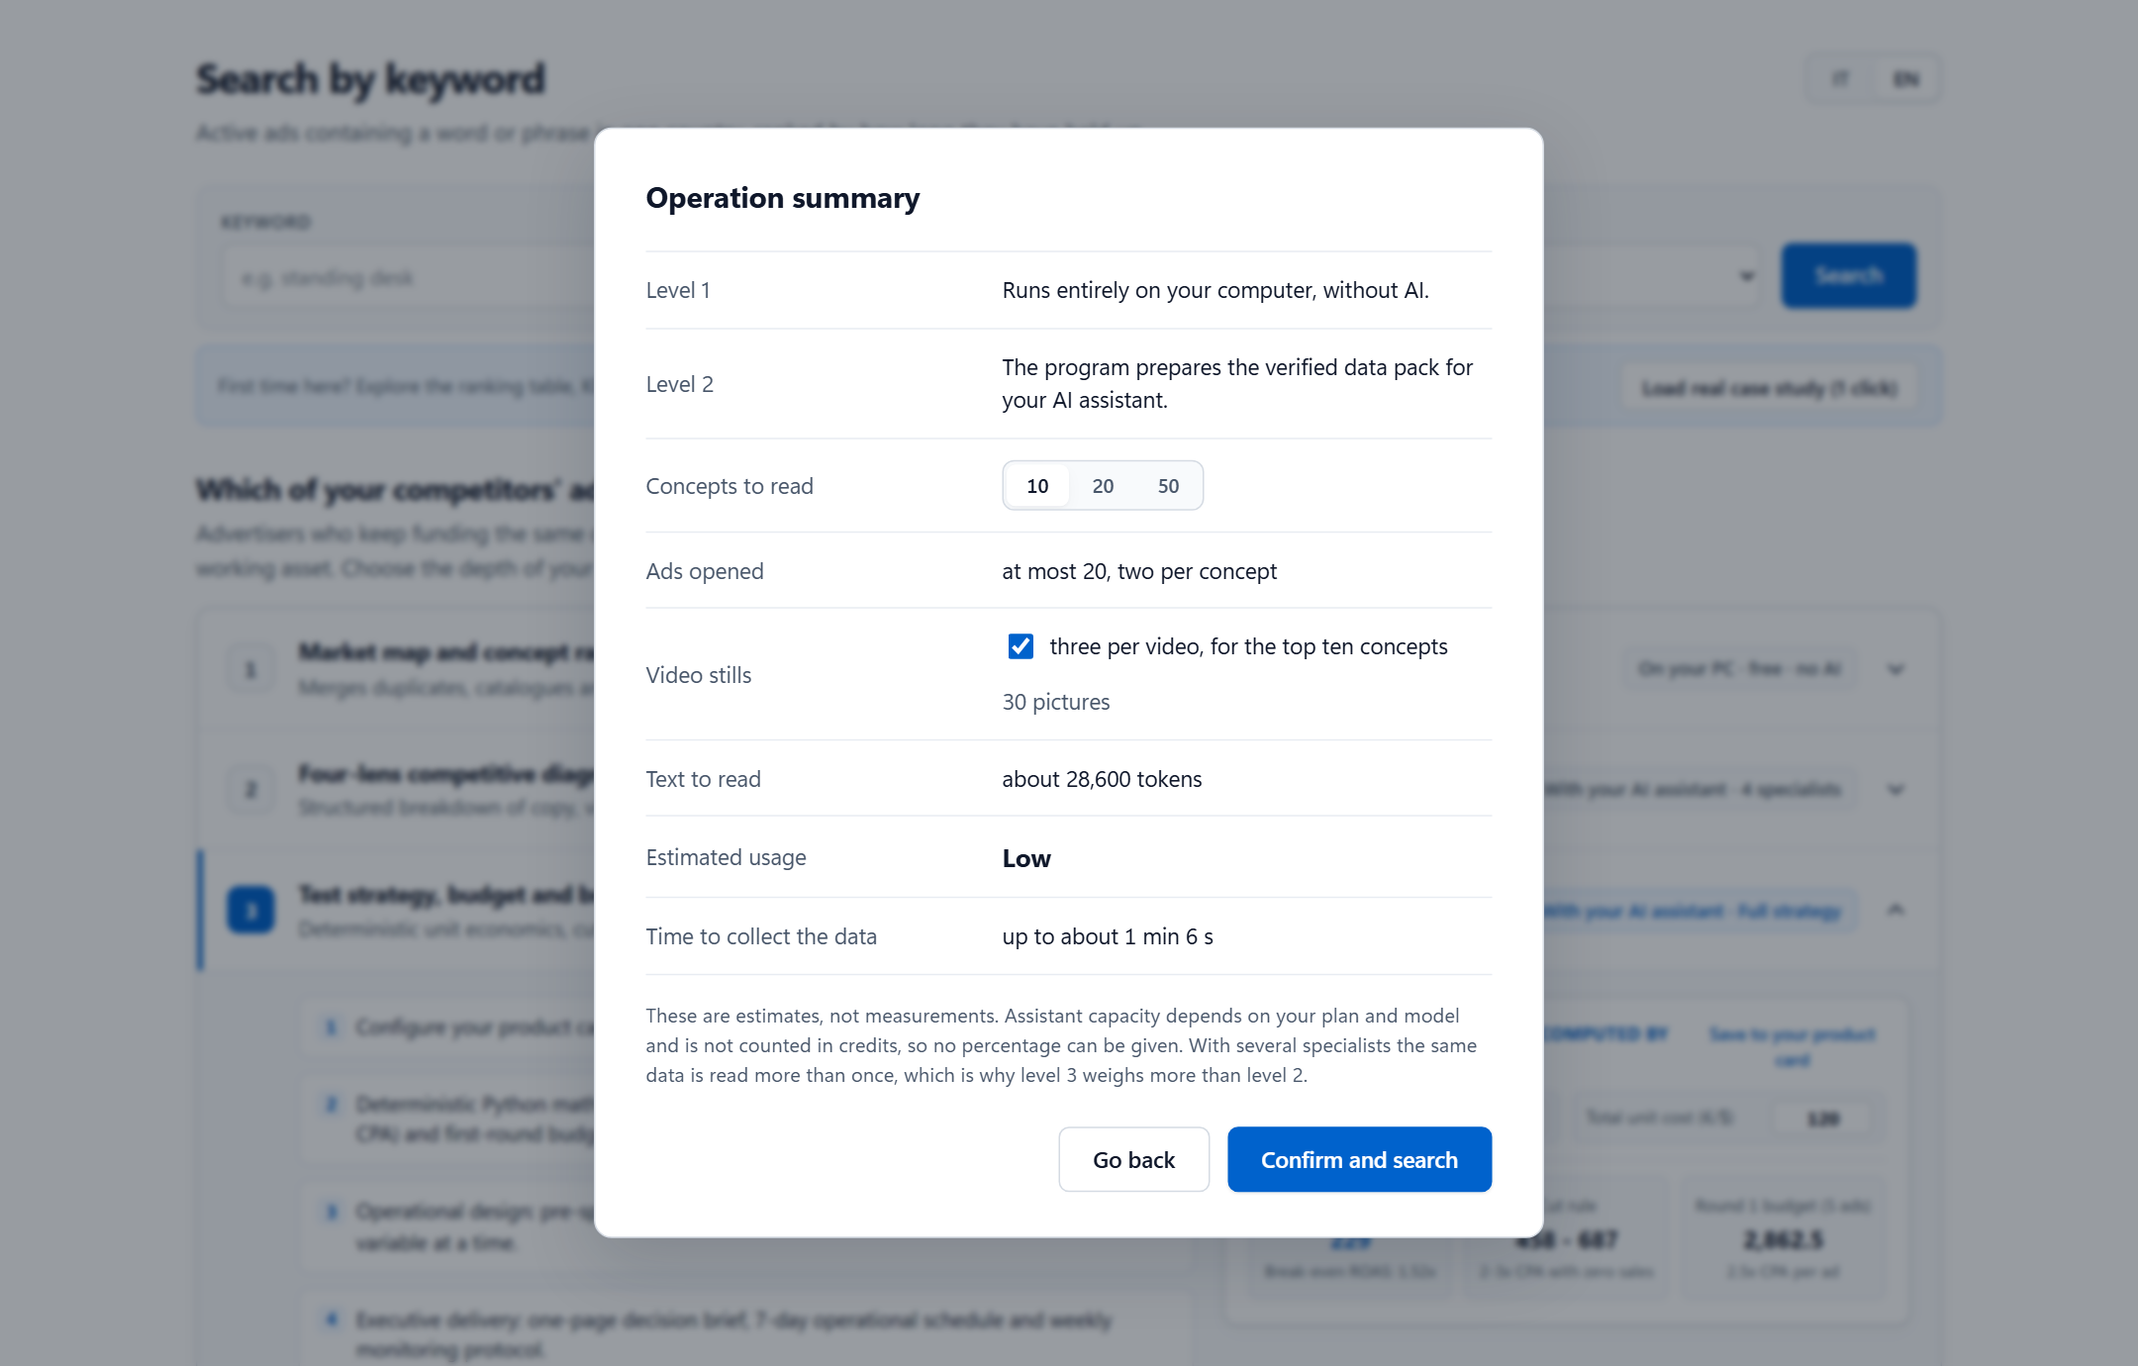
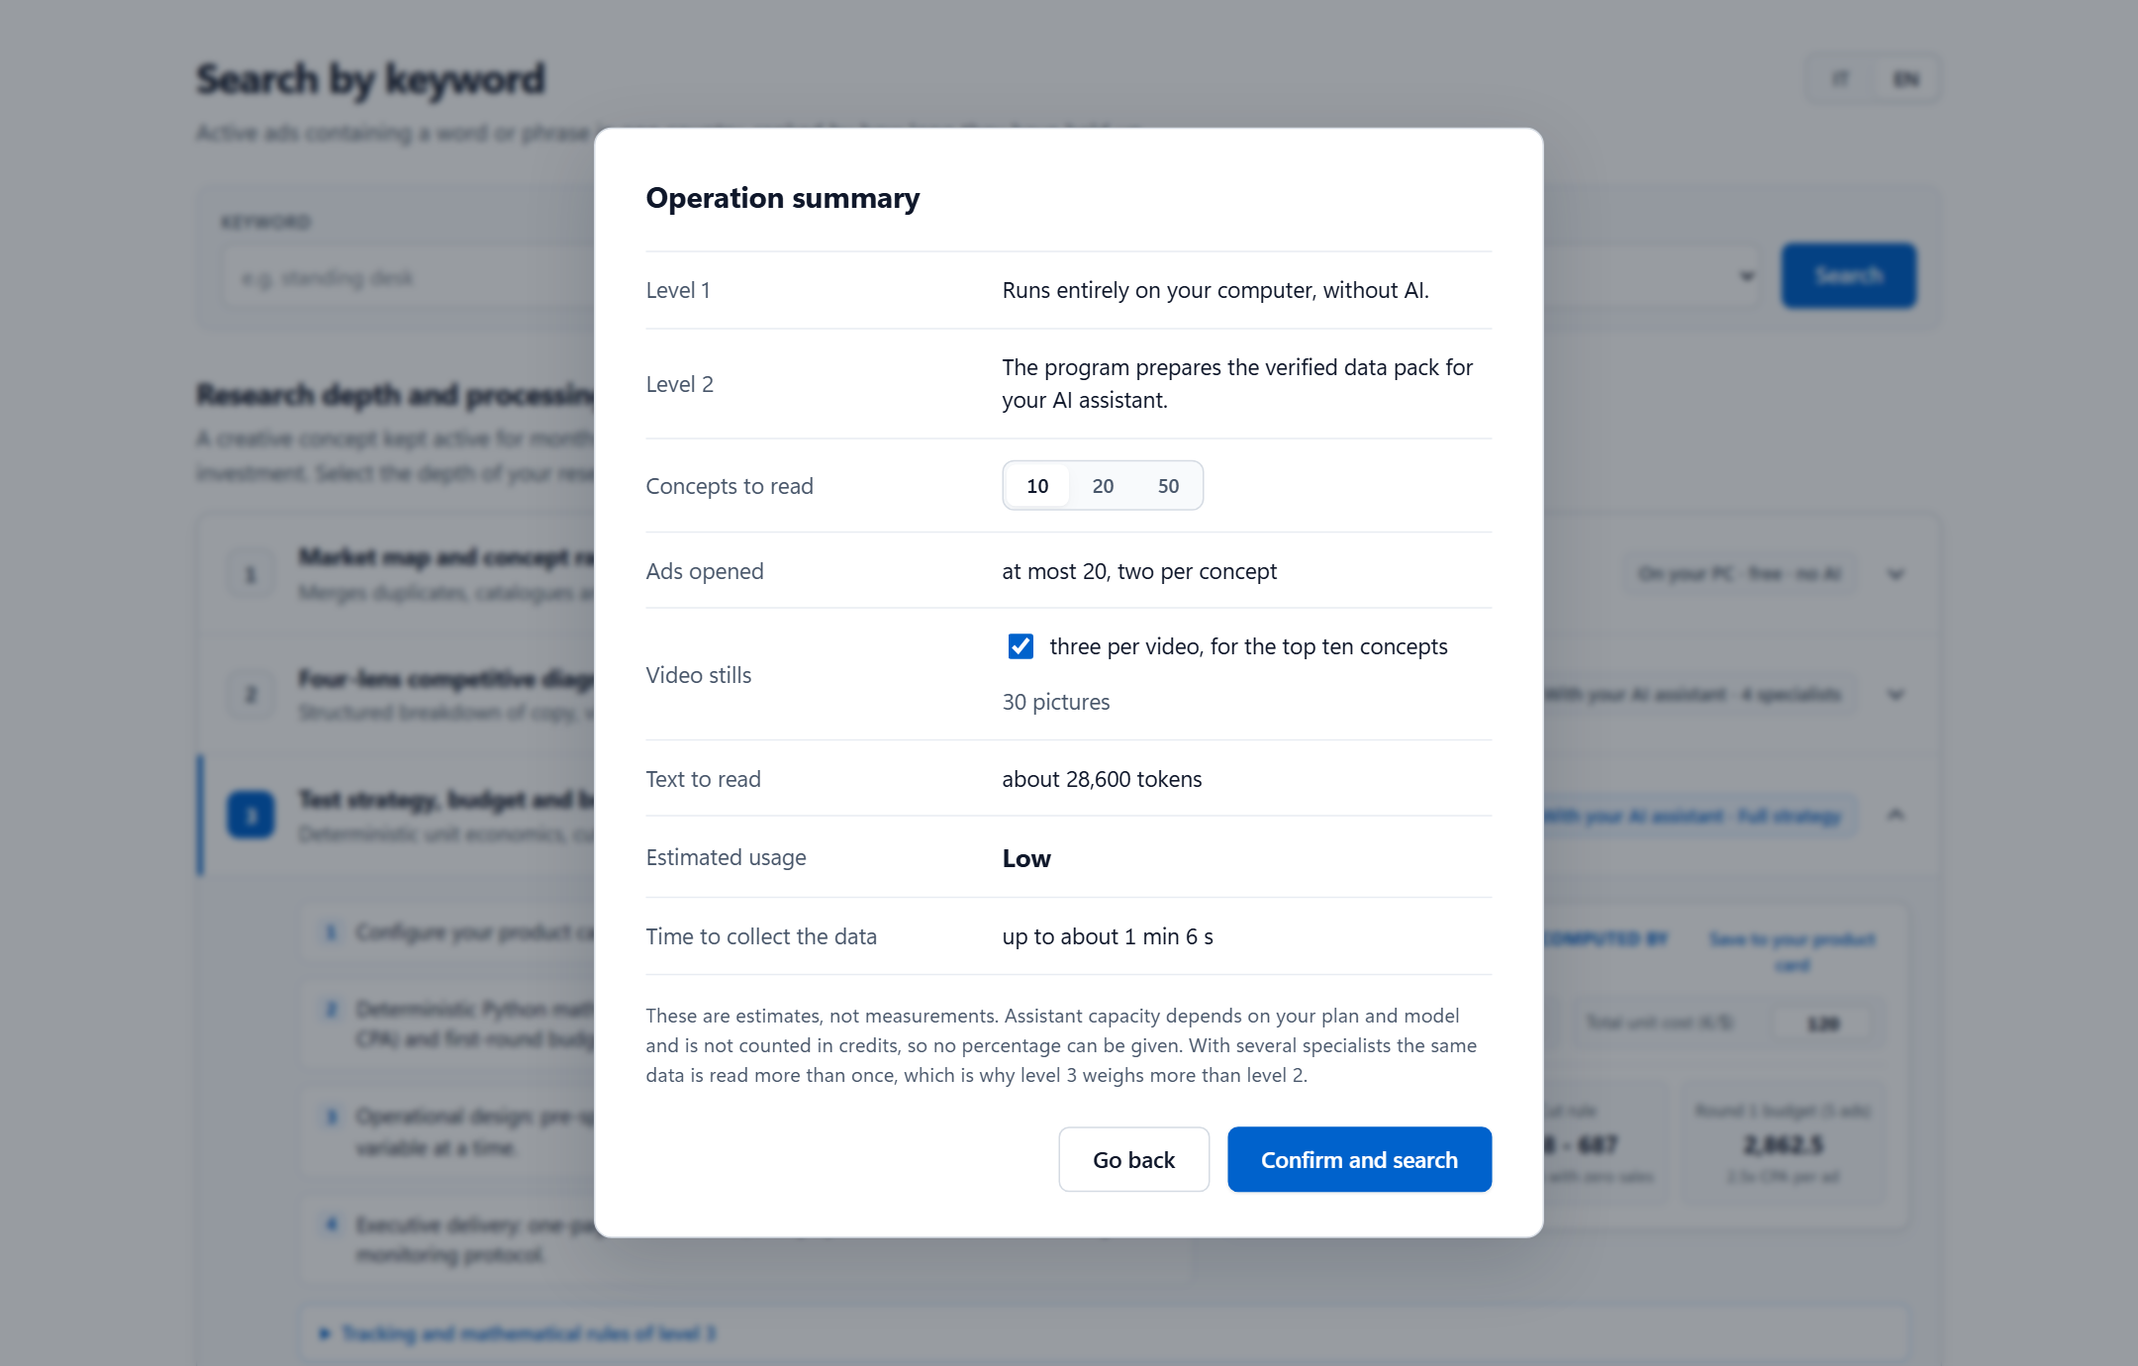
Web: institutional B2B copy, framed inspection selector, and visual screenshots inside tutorial and 3-step guide

diff --git a/src/ad_library_insights/web/static/app.js b/src/ad_library_insights/web/static/app.js
@@ -127,9 +127,7 @@ function toggle(name, values, current, label) {
 function renderTop() {
   document.documentElement.lang = S.lang;
   document.documentElement.dataset.theme = S.theme;
-  $('#modes').innerHTML = MODES.map((mode) => `<button data-action="mode" data-value="${mode}" aria-pressed="${mode === S.mode}" aria-current="${mode === S.mode}">${esc(t(`mode.${mode}`))}</button>`).join('');
-  const kpi = $('#kpi-btn');
-  if (kpi) kpi.textContent = t('kpi.btn');
+  $('#modes').innerHTML = MODES.map((mode) => `<button data-action="mode" data-value="${mode}" aria-current="${mode === S.mode}">${esc(t(`mode.${mode}`))}</button>`).join('');
   const tut = $('#tut-btn');
   if (tut) tut.textContent = t('tut.btn');
   $('#theme').setAttribute('aria-label', t('theme.label'));
@@ -175,7 +173,6 @@ function renderSearch() {
       <select data-bind="country" ${locked ? 'disabled' : ''}>${countryOptions(S.country)}</select></label>
     <button class="btn" data-action="submit" ${locked ? 'disabled' : ''}>${esc(t(company ? 'button.find' : 'button.search'))}</button>
   </div>
-  ${!S.result && !locked ? `<div class="demo-bar"><span>${esc(t('demo.prompt'))}</span><button class="btn quiet small" data-action="load-demo">${esc(t('demo.btn'))}</button></div>` : ''}
   <div class="levels-head"><h2>${esc(t('lv.title'))}</h2><p>${esc(t('lv.sub'))}</p></div>
   <div class="levels">${levelRows(locked)}</div>
   <div class="options">
@@ -396,8 +393,12 @@ function linkDialog(overlay) {
 }
 function howDialog(overlay) {
   const n = overlay.step;
-  return `<div class="dialog" role="dialog" aria-modal="true" aria-label="${esc(t('how.title'))}"><p class="how-step">${esc(t('how.step', { n }))}</p>
+  const shot = n === 1 ? `<img src="/docs/images/levels.png" alt="">`
+    : n === 2 ? `<img src="/docs/images/brief-dialog.png" alt="">`
+    : `<div class="tut-shot-pair"><img src="/docs/images/results-table.png" alt=""><img src="/docs/images/ad-panel.png" alt=""></div>`;
+  return `<div class="dialog wide" role="dialog" aria-modal="true" aria-label="${esc(t('how.title'))}"><p class="how-step">${esc(t('how.step', { n }))}</p>
     <h2 class="how-title">${esc(t(`how.${n}.title`))}</h2><p class="lead">${esc(t(`how.${n}.text`))}</p>
+    <figure class="tut-shot">${shot}<figcaption>${esc(t(`how.${n}.cap`))}</figcaption></figure>
     <div class="foot"><button class="btn quiet" data-action="how-prev" ${n === 1 ? 'disabled' : ''}>${esc(t('how.prev'))}</button>
       ${n === 3 ? `<button class="btn" data-action="close">${esc(t('button.close'))}</button>` : `<button class="btn" data-action="how-next">${esc(t('how.next'))}</button>`}</div></div>`;
 }
@@ -443,12 +444,11 @@ function headSection(r) {
   const title = company ? esc(page.name || r.query) : esc(t('result.keyword', { query: r.query, country: region(r.country) }));
   const facts = { category: page.category, followers: num(page.followers), country: region(r.country) };
   const sub = company ? `${esc(t(page.category ? 'result.sub.company' : 'result.sub.company.nocat', facts))}<br>${esc(loaded)}` : esc(loaded);
-  const demoBanner = r.demo ? `<section class="changes"><p>${esc(t('demo.banner'))}</p></section>` : '';
   return `<section class="rhead">${company ? avatar(page.logo, page.name, true) : ''}
     <div class="grow"><h1>${title}</h1><p>${sub}</p></div>
     <div class="rlinks"><a href="${esc(r.url)}" target="_blank" rel="noopener">${esc(t('link.meta'))}</a>
     <button class="linklike" data-action="kpi-open">${esc(t('kpi.btn'))}</button>
-    <button class="linklike" data-action="guide">${esc(t('link.guide'))}</button></div></section>${demoBanner}`;
+    <button class="linklike" data-action="guide">${esc(t('link.guide'))}</button></div></section>`;
 }
 function changesSection(r) {
   const c = r.changes;
@@ -992,6 +992,14 @@ function tutorialDialog(overlay) {
   const tab = Number(overlay.tab || 1);
   const tabs = [1, 2, 3, 4, 5, 6].map((n) => `<button data-action="tut-tab" data-value="${n}" aria-selected="${n === tab}">${esc(t(`tut.t${n}`))}</button>`).join('');
   const intro = `<div class="tut-intro">${esc(t(`tut.${tab}.intro`))}</div>`;
+  const shotMap = {
+    1: '<img src="/docs/images/results-summary.png" alt="">',
+    2: '<img src="/docs/images/levels.png" alt="">',
+    3: '<img src="/docs/images/usage-estimate.png" alt="">',
+    4: '<div class="tut-shot-pair"><img src="/docs/images/results-table.png" alt=""><img src="/docs/images/ad-panel.png" alt=""></div>',
+    6: '<img src="/docs/images/brief-dialog.png" alt="">',
+  };
+  const shot = shotMap[tab] ? `<figure class="tut-shot">${shotMap[tab]}<figcaption>${esc(t(`tut.${tab}.cap`))}</figcaption></figure>` : '';
   let body = '';
   if (tab === 5) {
     const kpiCard = (k) => `<div class="tut-card"><strong>${esc(t(`kpi.${k}.t`))}</strong><span class="tut-formula">${esc(t(`kpi.${k}.f`))}</span><p>${esc(t(`kpi.${k}.d`))}</p></div>`;
@@ -1000,7 +1008,7 @@ function tutorialDialog(overlay) {
       <h4 class="kpi-group-title">${esc(t('kpi.g2'))}</h4>
       <div class="kpi-grid">${[9, 10, 11, 12].map(kpiCard).join('')}</div>`;
   } else {
-    body = `<div class="tut-cards">${[1, 2, 3, 4].map((c) => `<div class="tut-card">
+    body = `${shot}<div class="tut-cards">${[1, 2, 3, 4].map((c) => `<div class="tut-card">
       <strong>${esc(t(`tut.${tab}.c${c}.t`))}</strong>
       <span class="tut-formula">${esc(t(`tut.${tab}.c${c}.f`))}</span>
       <p>${esc(t(`tut.${tab}.c${c}.d`))}</p>
@@ -1159,16 +1167,6 @@ const ACTIONS = {
       S.cmpCopied = true;
       renderResults();
     }
-  },
-  async 'load-demo'() {
-    try {
-      const job = await api(`/api/demo?level=${S.level}`);
-      if (job && job.result) {
-        S.mode = 'company'; S.company = 'Kingshot'; S.result = job.result; S.resultMode = 'company'; S.jobId = job.id;
-        render();
-        window.scrollTo({ top: $('#results').offsetTop - 12, behavior: 'instant' });
-      }
-    } catch { note('error.title', null, true); }
   },
   deep(value) { S.deep = Number(value); renderSearch(); renderOverlay(); refreshEstimate(); },
   submit, guide() { S.overlay = { type: 'guide' }; renderOverlay(); },

diff --git a/src/ad_library_insights/web/static/app.css b/src/ad_library_insights/web/static/app.css
@@ -113,9 +113,9 @@ input:focus, select:focus, textarea:focus { border-color: var(--accent); box-sha
 .btn.small { height: 34px; padding: 0 14px; font-size: .9rem; border-radius: 6px; }
 .btn:disabled { opacity: .5; cursor: default; filter: none; }
 
-.options { display: flex; align-items: center; flex-wrap: wrap; gap: 10px 12px; margin-top: 20px; color: var(--muted); font-size: .93rem; }
+.options { display: flex; align-items: center; flex-wrap: wrap; gap: 10px 12px; margin-top: 14px; padding: 11px 16px; background: var(--sunken); border: 1px solid var(--line); border-radius: 8px; color: var(--text); font-size: .92rem; }
 .options .gap { flex: 1; }
-.proj-pill { display: inline-flex; align-items: center; gap: 6px; padding: 5px 12px; border-radius: 7px; background: var(--sunken); border: 1px solid var(--line-soft); }
+.proj-pill { display: inline-flex; align-items: center; gap: 6px; padding: 5px 12px; border-radius: 7px; background: var(--surface); border: 1px solid var(--line); }
 .proj-pill.active { background: var(--accent-wash); border-color: var(--accent-border); color: var(--text); }
 .linklike { background: none; border: 0; padding: 0; color: var(--accent); font-weight: 580; }
 .linklike:hover { text-decoration: underline; }
@@ -231,10 +231,6 @@ table.cmp td.num { font-variant-numeric: tabular-nums; }
 .leg-list { margin: 0; padding: 0; list-style: none; display: grid; gap: 7px; }
 .leg-list li strong { display: inline-block; margin-right: 4px; color: var(--text); }
 .leg-list li span { color: var(--muted); line-height: 1.4; }
-.top-actions { display: flex; align-items: center; gap: 6px; }
-.demo-bar { display: flex; align-items: center; justify-content: space-between; gap: 12px; margin-top: 10px; padding: 9px 14px; background: var(--accent-wash); border: 1px solid var(--accent-border); border-radius: 8px; font-size: .88rem; color: var(--text); flex-wrap: wrap; }
-.demo-bar span { color: var(--muted); }
-.demo-bar strong { color: var(--text); font-weight: 640; }
 .sim-inputs { display: grid; grid-template-columns: 1fr 1fr; gap: 8px; margin-bottom: 10px; padding-bottom: 10px; border-bottom: 1px solid var(--line-soft); }
 .sim-field { display: flex; align-items: center; justify-content: space-between; gap: 6px; background: var(--sunken); border: 1px solid var(--line-soft); border-radius: 6px; padding: 5px 8px; font-size: .78rem; color: var(--muted); }
 .sim-field input { width: 68px; height: 24px; padding: 0 6px; border: 1px solid var(--line); border-radius: 4px; background: var(--surface); color: var(--text); font-size: .84rem; font-weight: 650; text-align: right; font-variant-numeric: tabular-nums; }
@@ -242,6 +238,10 @@ table.cmp td.num { font-variant-numeric: tabular-nums; }
 .tut-tabs button { background: none; border: 0; padding: 8px 8px; border-radius: 6px; font-size: .83rem; font-weight: 560; color: var(--muted); text-align: center; line-height: 1.25; }
 .tut-tabs button[aria-selected="true"] { background: var(--surface); color: var(--accent); font-weight: 650; box-shadow: var(--shadow-sm); }
 .tut-intro { margin-top: 14px; padding: 12px 16px; background: var(--accent-wash); border: 1px solid var(--accent-border); border-radius: 8px; font-size: .9rem; color: var(--text); line-height: 1.48; }
+.tut-shot { margin-top: 12px; padding: 12px; background: var(--sunken); border: 1px solid var(--line); border-radius: 8px; }
+.tut-shot img { display: block; width: 100%; max-height: 290px; object-fit: cover; object-position: top center; border: 1px solid var(--line-soft); border-radius: 6px; background: var(--surface); }
+.tut-shot-pair { display: grid; grid-template-columns: 1.15fr .85fr; gap: 10px; }
+.tut-shot figcaption { margin-top: 8px; font-size: .81rem; color: var(--muted); font-weight: 540; line-height: 1.4; }
 .tut-cards { display: grid; grid-template-columns: 1fr 1fr; gap: 12px; margin-top: 14px; }
 .tut-card { padding: 14px 16px; background: var(--sunken); border: 1px solid var(--line-soft); border-radius: 8px; display: flex; flex-direction: column; gap: 6px; }
 .tut-card strong { display: block; font-size: .95rem; font-weight: 650; color: var(--text); }

diff --git a/src/ad_library_insights/web/static/index.html b/src/ad_library_insights/web/static/index.html
@@ -5,23 +5,20 @@
 <meta name="viewport" content="width=device-width, initial-scale=1">
 <title>Ad Library Insights</title>
 <script>try{const t=localStorage.getItem('theme');if(t==='dark'||t==='light')document.documentElement.dataset.theme=t;}catch(e){}</script>
-<link rel="stylesheet" href="/static/app.css?v=4">
+<link rel="stylesheet" href="/static/app.css?v=5">
 </head>
 <body>
 <header class="topbar">
   <div class="topbar-in">
     <span class="brand"><span class="brand-mark" aria-hidden="true"><svg viewBox="0 0 18 18" fill="none" stroke="currentColor" stroke-width="2"><path d="M3 14V9.5M7 14V5.5M11 14V8M15 14V3.5" stroke-linecap="round"/></svg></span><span>Ad Library Insights</span></span>
     <nav class="modes" id="modes" aria-label="Mode"></nav>
-    <div class="top-actions">
-      <button class="btn quiet small top-kpi" id="kpi-btn" data-action="kpi-open"></button>
-      <button class="btn quiet small top-tut" id="tut-btn" data-action="tutorial"></button>
-    </div>
+    <button class="btn quiet small top-tut" id="tut-btn" data-action="tutorial"></button>
     <div class="switch" id="theme" role="group"></div>
   </div>
 </header>
 <section class="search" id="search"></section>
 <main class="page" id="results"></main>
 <div id="overlay"></div>
-<script src="/static/app.js?v=4"></script>
+<script src="/static/app.js?v=5"></script>
 </body>
 </html>

diff --git a/src/ad_library_insights/web/app.py b/src/ad_library_insights/web/app.py
@@ -274,54 +274,6 @@ class Workspace:
     async def saved_searches(self, request: Request) -> Response:
         return JSONResponse({"subjects": self.history.subjects()})
 
-    async def demo(self, request: Request) -> Response:
-        """Load an offline sample search so a first-time visitor can explore the table and KPIs immediately."""
-        import json
-        from datetime import date
-        from .. import signals
-        from ..client import FetchResult
-
-        level = request.query_params.get("level") or "analysis"
-        if level not in consumption.LEVELS:
-            level = "analysis"
-        root = Path(__file__).resolve().parents[3]
-        fx = root / "tests" / "fixtures" / "rating_kingshot_it.json"
-        det_fx = root / "tests" / "fixtures" / "ad_details_eu_many_countries.json"
-        if fx.is_file() and det_fx.is_file():
-            data = json.loads(fx.read_text(encoding="utf-8"))
-            parsed_det = details.parse_details(json.loads(det_fx.read_text(encoding="utf-8")))
-            fetch = FetchResult(url="https://www.facebook.com/ads/library/?active_status=active&ad_type=all&country=IT&q=Kingshot",
-                                outcome="ok", ads=data["cards"], total_count=216, source="structured")
-            result = service.assemble(fetch, "Kingshot", "IT", as_of=date.fromisoformat(data["as_of"]))
-            for item in result["ads"]:
-                found = data["reach"].get(item["library_id"])
-                if found:
-                    item["reach"] = {**found, "regions": parsed_det["reach"].get("regions", [])}
-                    item["audience"] = parsed_det["audience"]
-                for other in item["variant_ids"]:
-                    if other in data["reach"]:
-                        item.setdefault("card_reach", {})[other] = data["reach"][other]
-            signals.annotate(result["ads"], library_total=216)
-            signals.refresh(result["signals"], result["ads"], "IT")
-            params = {"mode": "company", "country": "IT", "level": level, "deep": 10, "frames": False,
-                      "query": "Kingshot", "page_id": "100089123456", "fresh": False}
-            result.update(
-                mode="company",
-                ads_parsed=212,
-                from_cache=True,
-                page={"name": "Kingshot", "category": "Game Publisher", "followers": 2596792},
-                changes={"available": False},
-                deep={"requested": 10, "read": 14, "concepts": 12, "with_reach": 12,
-                      "ceiling": 20, "capped": False, "left_out": 0},
-            )
-            raw = json.loads(json.dumps(result, default=str))
-            shown = present(raw, params)
-            shown["demo"] = True
-            job = Job(id="demo", params=params, status="done", phase="media", result=shown, raw=raw)
-            self.jobs["demo"] = job
-            return JSONResponse(job.view())
-        return JSONResponse({"error": "not_found"}, status_code=404)
-
     async def changes(self, request: Request) -> Response:
         found = self.history.changes(request.query_params.get("key", ""))
         for group in ("new", "stopped", "changed"):
@@ -451,7 +403,7 @@ def create_app(client: AdLibraryClient | None = None, home: Path | None = None,
         Route("/api/link/connect", space.link_connect, methods=["POST"]),
         Route("/api/history", space.saved_searches),
         Route("/api/history/changes", space.changes),
-        Route("/api/demo", space.demo, methods=["GET", "POST"]),
+        Mount("/docs/images", StaticFiles(directory=Path(__file__).resolve().parents[3] / "docs" / "images", check_dir=False), name="docs_images"),
         Mount("/static", StaticFiles(directory=STATIC), name="static"),
     ])
     app.state.workspace = space

diff --git a/tests/test_web.py b/tests/test_web.py
@@ -645,7 +645,7 @@ def test_page_opening_a_level_row_chooses_it_and_the_state_is_remembered(site, p
     page = page_of("it")
     page.wait_for_selector(".lvl")
     assert _open_rows(page) == [True, False, False] and page.evaluate("S.level") == "data"
-    assert "Quali annunci dei tuoi concorrenti fanno davvero soldi?" in page.inner_text(".levels-head")
+    assert "Profondità dell'indagine e livello di elaborazione" in page.inner_text(".levels-head")
     assert _count(page, "#lv-plan li") == 4 and _count(page, "#lv-data li") == 4
     assert page.is_visible("#lv-data") and page.is_hidden("#lv-plan")
     assert _count(page, ".lvl-body .btn") == 0                         # no button to choose: opening chooses
